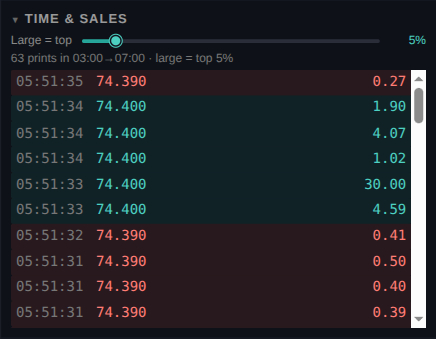
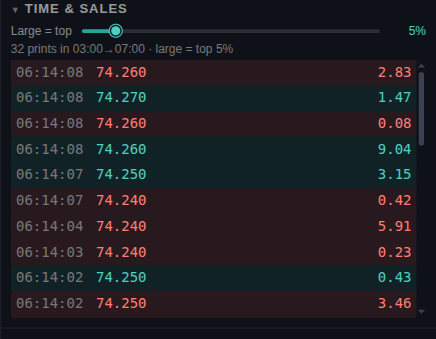
Theme the scrollbars; refresh the docs tape shot
The OS-default grey scrollbar clashed with the dark UI (most visible in
the Time & Sales tape). Add thin, dark, theme-matching scrollbars
app-wide in style.css (track transparent, thumb #3a4150, lighter on
hover; Firefox via scrollbar-width/color). Re-capture docs-tape.png with
the new bar. SW CACHE_VERSION bumped.

Changed region(s): [[0.0, 0.0, 0.9839, 0.9735], [0.9243, 0.059, 0.9839, 0.1475]]

diff --git a/frontend/style.css b/frontend/style.css
@@ -1,6 +1,20 @@
 * { box-sizing: border-box; }
 html, body { margin: 0; padding: 0; height: 100%; background: #131722; color: #d1d4dc; font-family: -apple-system, "Segoe UI", Roboto, sans-serif; overflow: hidden; }
 
+/* Themed scrollbars — thin and dark so they blend into the app chrome instead
+   of the chunky grey OS default (most visible in the Time & Sales tape and the
+   trades list). Track is invisible; the thumb uses the border colour and
+   lightens on hover. */
+* { scrollbar-width: thin; scrollbar-color: #3a4150 transparent; }
+*::-webkit-scrollbar { width: 10px; height: 10px; }
+*::-webkit-scrollbar-track { background: transparent; }
+*::-webkit-scrollbar-thumb {
+  background: #3a4150; border-radius: 8px;
+  border: 2px solid transparent; background-clip: content-box;
+}
+*::-webkit-scrollbar-thumb:hover { background: #4a5263; background-clip: content-box; }
+*::-webkit-scrollbar-corner { background: transparent; }
+
 /* Boot splash — full-screen logo + name shown until the first chart loads. */
 #boot-splash {
   position: fixed; inset: 0; z-index: 200;

diff --git a/frontend/sw.js b/frontend/sw.js
@@ -8,7 +8,7 @@
 // Bump on every meaningful frontend release — the install handler precaches
 // under this key and activate evicts older keys, so visitors get the new
 // assets on the next load.
-const CACHE_VERSION = "8566fdea0b";
+const CACHE_VERSION = "54025bf9e4";
 const CACHE = `backtick-shell-${CACHE_VERSION}`;
 const SHELL = [
   "/",